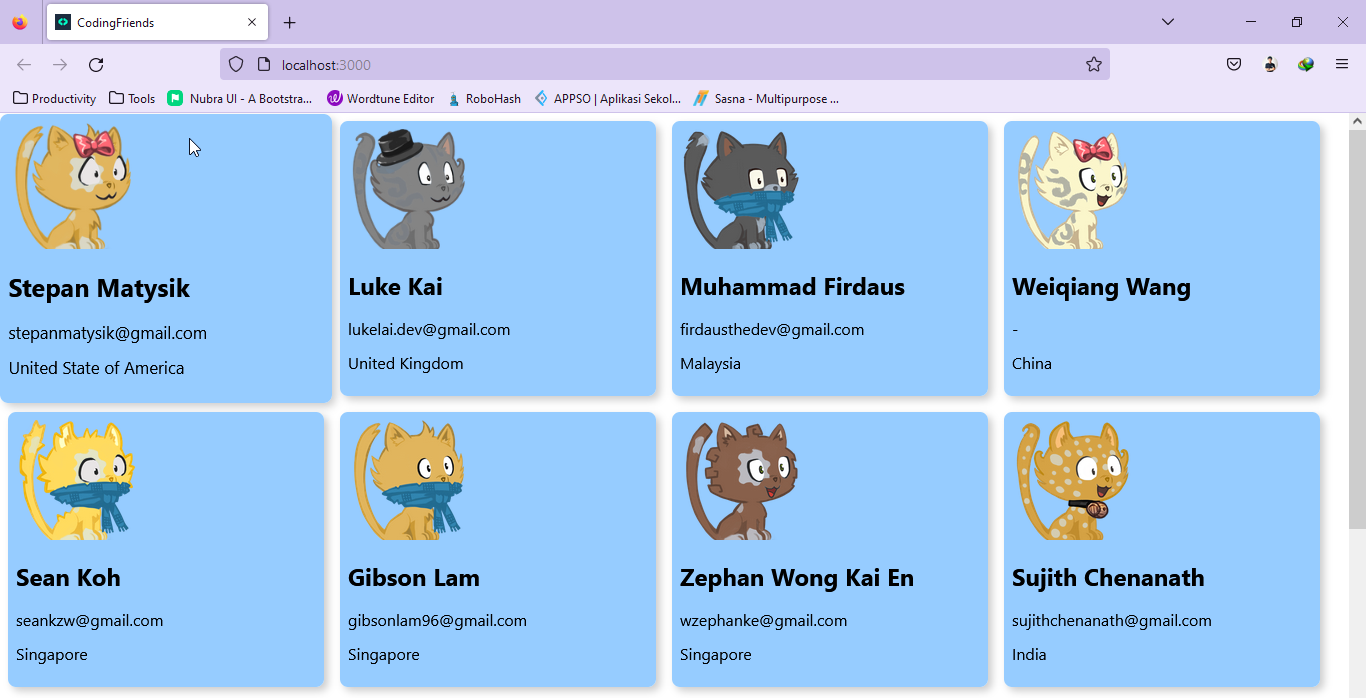
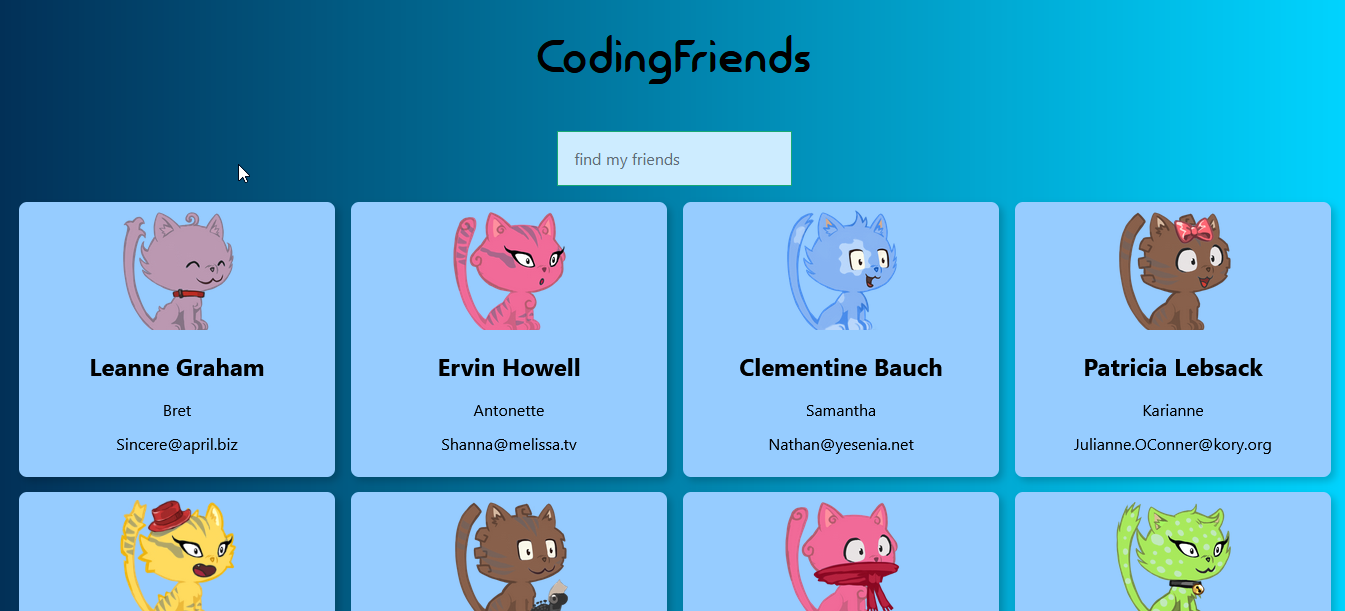
Using jsonplaceholder

diff --git a/src/App.js b/src/App.js
@@ -1,16 +1,21 @@
 import React, { Component } from 'react';
 import CardList from './CardList';
 import SearchBox from './SearchBox';
-import { robots } from './robots';
 import './App.css';
 
 class App extends Component {
 	constructor() {
 		super()
 		this.state = {
-			robots: robots,
+			robots: [],
 			searchfield: ''
 		}
+	}
+
+	componentDidMount() {
+		fetch('https://jsonplaceholder.typicode.com/users')
+			.then(response => response.json())
+			.then(users => this.setState({ robots: users }));
 	}
 
 	onSearchChange = (event) => {
@@ -21,13 +26,18 @@ class App extends Component {
 		const filteredRobots = this.state.robots.filter(robot => {
 			return robot.name.toLowerCase().includes(this.state.searchfield.toLowerCase());
 		});
-		return(
-			<div className="tc">
-				<h1>CodingFriends</h1>
-				<SearchBox searchChange={this.onSearchChange} />
-				<CardList robots={filteredRobots} />
-			</div>
-		);	
+
+		if(this.state.robots.length === 0) {
+			return <h1>Data Not Found!</h1>
+		}else {
+			return(
+				<div className="tc">
+					<h1>CodingFriends</h1>
+					<SearchBox searchChange={this.onSearchChange} />
+					<CardList robots={filteredRobots} />
+				</div>
+			);	
+		}
 	}
 }
 

diff --git a/src/Card.js b/src/Card.js
@@ -1,11 +1,11 @@
 const Card = (props) => {
 	return (
 		<div className="bg-light-blue dib br3 pa2 ma2 grow shadow-5">
-			<img src={`https://robohash.org/${props.foto}?set=set4`} className="w-40" alt="avatar" />
+			<img src={`https://robohash.org/${props.name}?set=set4`} className="w-40" alt="avatar" />
 			<div>
-				<h2>Mr. { props.name }</h2>
+				<h2>{ props.name }</h2>
+				<p>{ props.username }</p>
 				<p>{ props.email }</p>
-				<p>{ props.negara }</p>
 			</div>
 		</div>
 	);

diff --git a/src/CardList.js b/src/CardList.js
@@ -10,10 +10,10 @@ const CardList = ({ robots }) => {
 					<Card 
 						key={i} 
 						id={robots[i].id} 
-						foto={robots[i].foto} 
+						foto={robots[i].name} 
 						name={robots[i].name} 
+						username={robots[i].username} 
 						email={robots[i].email} 
-						negara={robots[i].negara} 
 					/>
 				)
 			})
